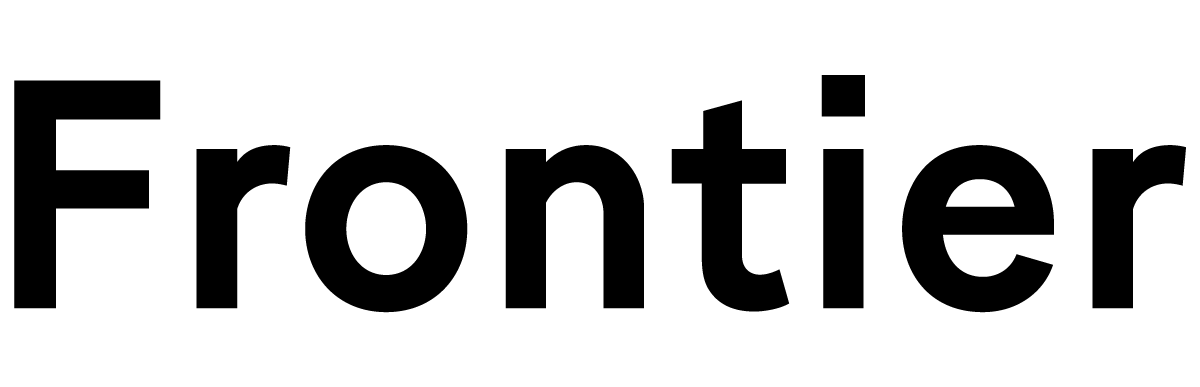
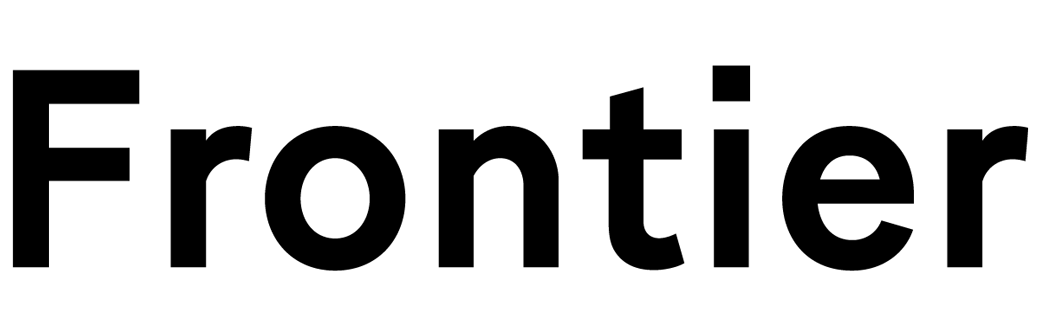
adding email to temp page

diff --git a/index-full.html b/index-full.html
@@ -11,7 +11,7 @@
 <body>
 <script>
 
-	// get variables from the url
+	/* get variables from the url */
 	function getUrlParameter(sParam)
 	{
 	    var sPageURL = window.location.search.substring(1);
@@ -29,42 +29,42 @@
 	var blurringY = getUrlParameter('blurY');
 	var displacementvalue = getUrlParameter('displace');
 	
-	// creating the 'renderer' for the image -- change the dimensions to match the dimensions of your image
+	/* creating the 'renderer' for the image -- change the dimensions to match the dimensions of your image */
 	var renderer = PIXI.autoDetectRenderer(1200, 387,{transparent: true});
 	
-	// positioning it fixed to the middle of the screen
+	/* positioning it fixed to the middle of the screen */
 	renderer.view.style.position = 'fixed';renderer.view.style.left = '50%';renderer.view.style.top = '50%';renderer.view.style.transform = 'translate3d( -50%, -50%, 0 )';
 	document.body.appendChild(renderer.view);
 	
-	// create the root of the scene graph
+	/* create the root of the scene graph */
 	var stage = new PIXI.Container();
 	var container = new PIXI.Container();
 	stage.addChild(container);
 	
-	// adding the image to the 'container'
+	/* adding the image to the 'container' */
 	var displacementSprite = PIXI.Sprite.fromImage('displace-texture.png');
 	var displacementFilter = new PIXI.filters.DisplacementFilter(displacementSprite);
 	stage.addChild(displacementSprite);
 
-	// adding the displacement filter to the container
+	/* adding the displacement filter to the container */
 	container.filters = [displacementFilter];
 
-	// adjusting the scale of the displacement filter. change these values to get a finer or more broad movement
+	/* adjusting the scale of the displacement filter. change these values to get a finer or more broad movement */
 	displacementFilter.scale.x = 20;
 	displacementFilter.scale.y = 20;
 	
-	// adding the image
+	/* adding the image */
 	var texture = PIXI.Texture.fromImage('frontier.png');
 	var frontierText = new PIXI.Sprite(texture);
 	container.addChild(frontierText);
 
-	// applying blur
+	/* applying blur */
 	var blurFilter1 = new PIXI.filters.BlurFilter();
 	blurFilter1.blurX = blurringX;
 	blurFilter1.blurY = blurringY;
 	frontierText.filters = [blurFilter1];
 	
-	// creating the animation
+	/* creating the animation */
 	var count = 0;
 	animate();
 	
@@ -79,7 +79,7 @@
 	    
 	}
 
-	// toggling a class to move the text above and below the image
+	/* toggling a class to move the text above and below the image */
 	$(document).ready(function(){
 		$('body').click(function(){
 			$('body').toggleClass('show');

diff --git a/index.html b/index.html
@@ -30,7 +30,7 @@
 	var displacementvalue = getUrlParameter('displace');
 	
 	// creating the 'renderer' for the image -- change the dimensions to match the dimensions of your image
-	var renderer = PIXI.autoDetectRenderer(1200, 387,{transparent: true});
+	var renderer = PIXI.autoDetectRenderer(1040, 335,{transparent: true});
 	
 	// positioning it fixed to the middle of the screen
 	renderer.view.style.position = 'fixed';renderer.view.style.left = '50%';renderer.view.style.top = '50%';renderer.view.style.transform = 'translate3d( -50%, -50%, 0 )';
@@ -60,8 +60,8 @@
 
 	// applying blur
 	var blurFilter1 = new PIXI.filters.BlurFilter();
-	blurFilter1.blurX = blurringX;
-	blurFilter1.blurY = blurringY;
+	blurFilter1.blurX = 2;
+	blurFilter1.blurY = 3;
 	frontierText.filters = [blurFilter1];
 	
 	// creating the animation
@@ -72,25 +72,25 @@
 	{
 	    count += 0.05;
 
-		displacementSprite.x = Math.cos(count) * displacementvalue
-		displacementSprite.y = count * displacementvalue
+		displacementSprite.x = Math.cos(count) * 6
+		displacementSprite.y = count * 6
 	    renderer.render(stage);
 	    requestAnimationFrame(animate);
 	    
 	}
 
-	// toggling a class to move the text above and below the image
-	$(document).ready(function(){
-		$('body').click(function(){
-			$('body').toggleClass('show');
-		});
-	});
+	// // toggling a class to move the text above and below the image
+	// $(document).ready(function(){
+	// 	$('body').click(function(){
+	// 		$('body').toggleClass('show');
+	// 	});
+	// });
 
 
 </script>
 <div id="content">
 	<!-- about -->
-	<p>Full website launching soon.</p>
+	<a href="mailto:info@frontier.aiga.org">info@frontier.aiga.org</a>
 </div>
 
 </body>

diff --git a/main.css b/main.css
@@ -28,9 +28,14 @@
 body {
 	margin: 0;
 	padding: 0;
-	background-color: #ddd;
+	background-color: #fff;
 
-	font: 22px/30px 'playground';
+	font: 18px/24px 'playground';
+}
+
+a { 
+	color: black;
+	text-decoration: none;
 }
 
 canvas {
@@ -51,7 +56,7 @@ h1#logo {
 	height: auto;
 
 	margin: 0px auto;
-	padding-top: 66vh;
+	padding-top: 80vh;
 	padding-bottom: 0vh;
 	background: transparent;
 	text-align: center;
